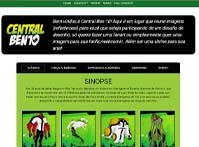
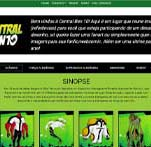
terminado a aba contact us e portfolio

diff --git a/index.html b/index.html
@@ -150,7 +150,7 @@
                     <div class="carousel-caption d-md-block">
 
                       <p>
-                        Você fica horas na frente do pc? Então esse site foi feito pra você!
+                        If you spend hours in front of your pc, set a time and when the timer runs out, stop (we recommend 5min) what are you doing and do small activities to maintain your body's health.
                       </p>
 
                       <a href="https://github.com/CaioLima96/MoveIt-Next.js" target="_blank"><p>see more &gt;&gt;&gt;</p></a>
@@ -167,7 +167,7 @@
                     <div class="carousel-caption d-md-block">
 
                       <p>
-                        A Central ben 10 é um lugar que reune imagens (referências) para você que esteja participando de um desafio de desenho, só queira fazer uma fanart ou simplesmente quer uma imagem para sua fanfic/webcomic. Além ser uma vitrine para sua arte!
+                        We are an image library for you who are taking part in a drawing challenge, just want to make a fanart or simply want an image for your fanfic. Besides being a gallery for your art!
                       </p>
 
                       <a href="https://github.com/CaioLima96/Central-Ben-10" target="_blank"><p>see more &gt;&gt;&gt;</p></a>
@@ -201,15 +201,21 @@
             </div>
 
             <!---CONTACT US--->
-            <div class="tab-pane fade" id="nav-contact-us" role="tabpanel" aria-labelledby="nav-contact-us-tab">              
+            <div class="tab-pane fade" id="nav-contact-us" role="tabpanel" aria-labelledby="nav-contact-us-tab">   
+              
+              <div>
+                <p>My email: caiovcastrolima@gmail.com</p>
+              </div>
                 
               <div>
                 
                 <a href="https://www.linkedin.com/in/caiovieiralima/" target="_blank"><i class="fab fa-linkedin-in fa-2x"></i></a>
 
-                <a href="https://github.com/CaioLima96"><i class="fab fa-github fa-2x"></i></a>
+                <a href="https://github.com/CaioLima96" target="_blank"><i class="fab fa-github fa-2x"></i></a>
 
-                <a href="https://www.instagram.com/caiolimaart/"><i class="fab fa-instagram fa-2x"></i></a>
+                <a href="https://www.instagram.com/caiolimaart/" target="_blank"><i class="fab fa-instagram fa-2x"></i></a>
+
+                <a href="https://www.facebook.com/caiolimaart" target="_blank"><i class="fab fa-facebook-f fa-2x"></i></a>
 
               </div>
 

diff --git a/css/styles.css b/css/styles.css
@@ -4,6 +4,10 @@
     margin: 0;
 }
 
+body {
+    background-color: #FAFAFA;
+}
+
 #main-container { 
     width: 90%;
     max-width: 547.19px;
@@ -114,9 +118,9 @@
 
 /******** PORTFOLIO ********/
 
-#part-3 #carouselPortfolio {
+/*#part-3 #carouselPortfolio {
     height: 385px !important;
-}
+}*/
 
 #part-3, a, .carousel-caption, .nav-tabs .nav-item.show .nav-link, .nav-tabs .nav-link {
     color:  #409DAD !important;
@@ -126,10 +130,6 @@
     top: -11.25rem !important;
     opacity: .8 !important;
 }
-
-/*#part-3 #nav-portifolio .carousel-inner {
-    margin-bottom: 1.5rem;
-}*/
 
 #part-3 #nav-portifolio .carousel-indicators {
     margin-bottom:  0.5rem !important;
@@ -149,9 +149,19 @@
     margin-left: auto;
 }
 
-#part-3 #nav-contact-us div {
+
+
+
+/******** CONTACT US ********/
+#part-3 #nav-contact-us div:nth-last-child(2) {
+    margin-top: 1rem;
+    color: black !important;
+}
+
+#part-3 #nav-contact-us div:nth-child(2) {
     display: flex;
     justify-content: space-evenly;
+    padding: 0.813rem 0;
 }
 
 #part-3 #nav-contact-us div a  {
